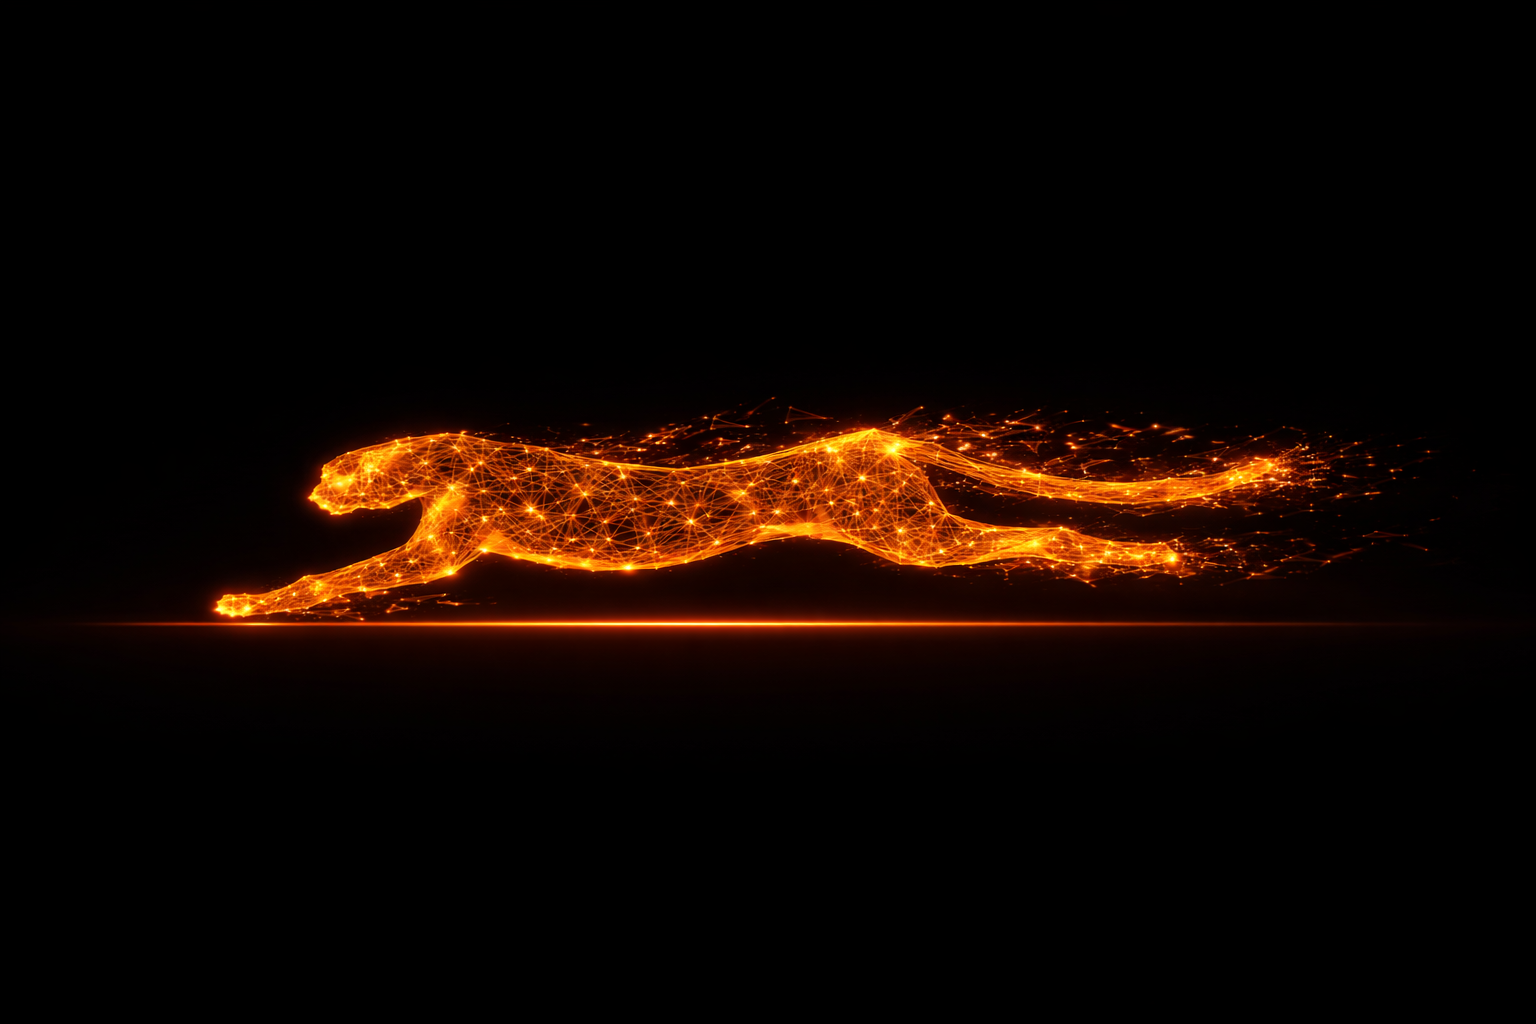
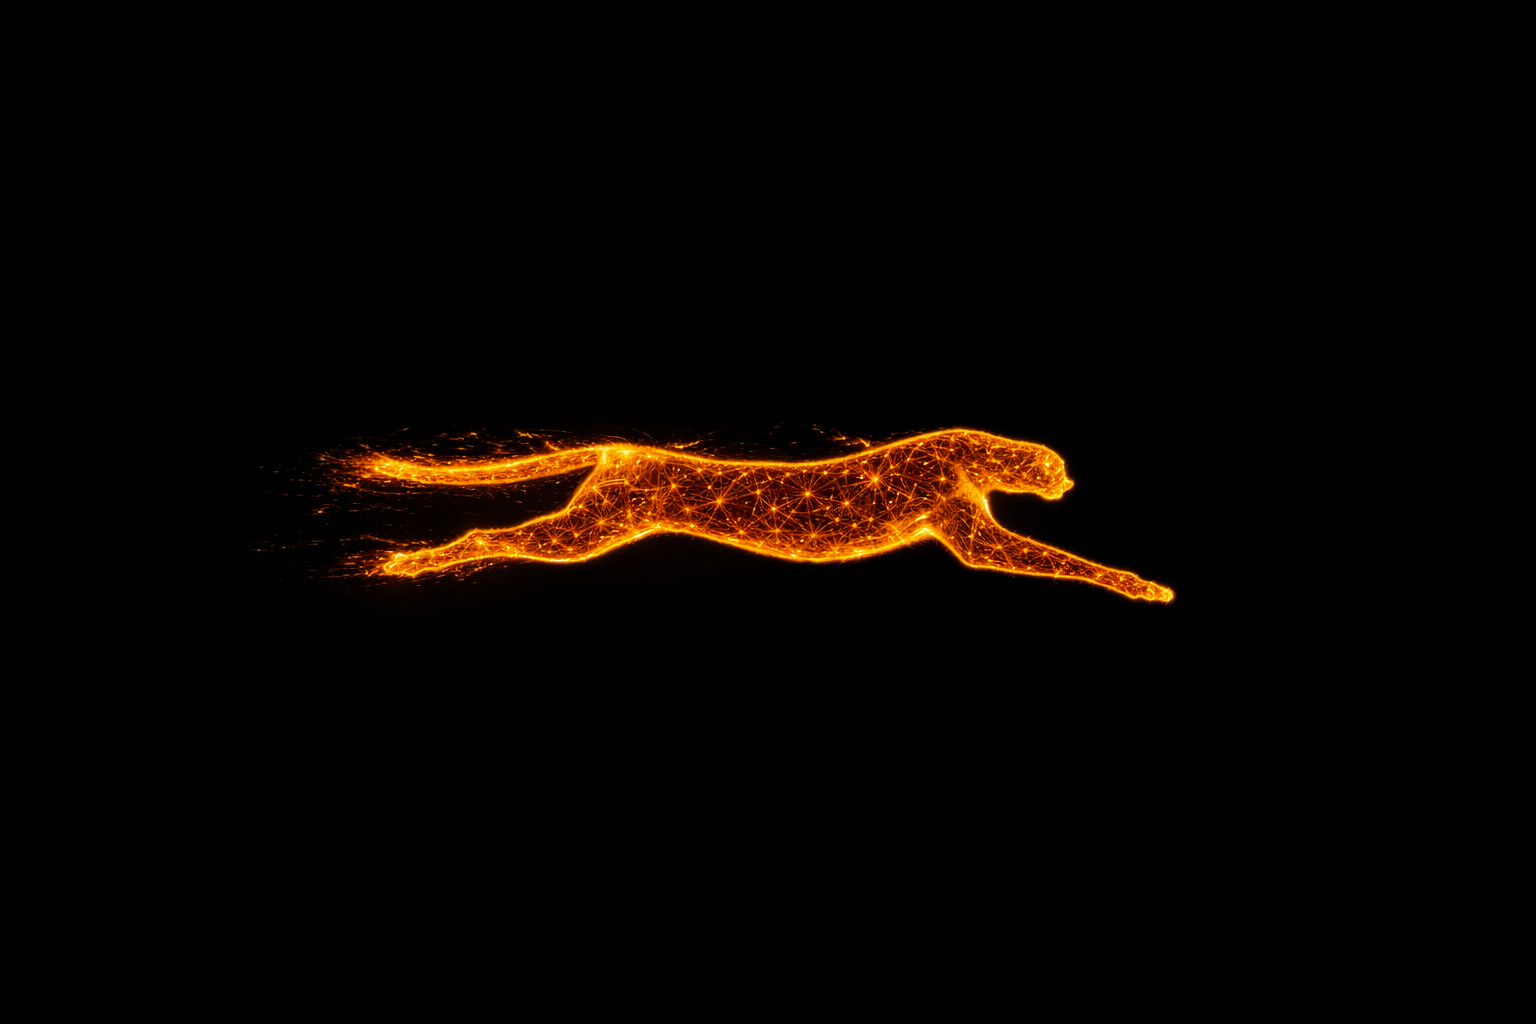
Changes

Changed region(s): [[0.0625, 0.375, 0.9062, 0.6562]]

diff --git a/src/components/CheetahLanding.tsx b/src/components/CheetahLanding.tsx
@@ -97,9 +97,8 @@ const CheetahLanding = () => {
         style={{
           position: "absolute",
           top: "50%",
-          left: 0,
-          width: "100%",
-          transform: `translateX(${cheetahProgress}%) translateY(-50%)`,
+          left: "50%",
+          transform: `translate(${cheetahProgress}%, -50%)`,
           willChange: "transform",
           opacity: cheetahVisible ? 1 : 0,
           transition: "opacity 0.4s ease-out",
@@ -110,12 +109,13 @@ const CheetahLanding = () => {
           alt=""
           draggable={false}
           style={{
-            width: "min(500px, 65vw)",
+            width: "min(600px, 70vw)",
             height: "auto",
             objectFit: "contain",
             display: "block",
             pointerEvents: "none",
             userSelect: "none",
+            background: "transparent",
           }}
         />
       </div>
